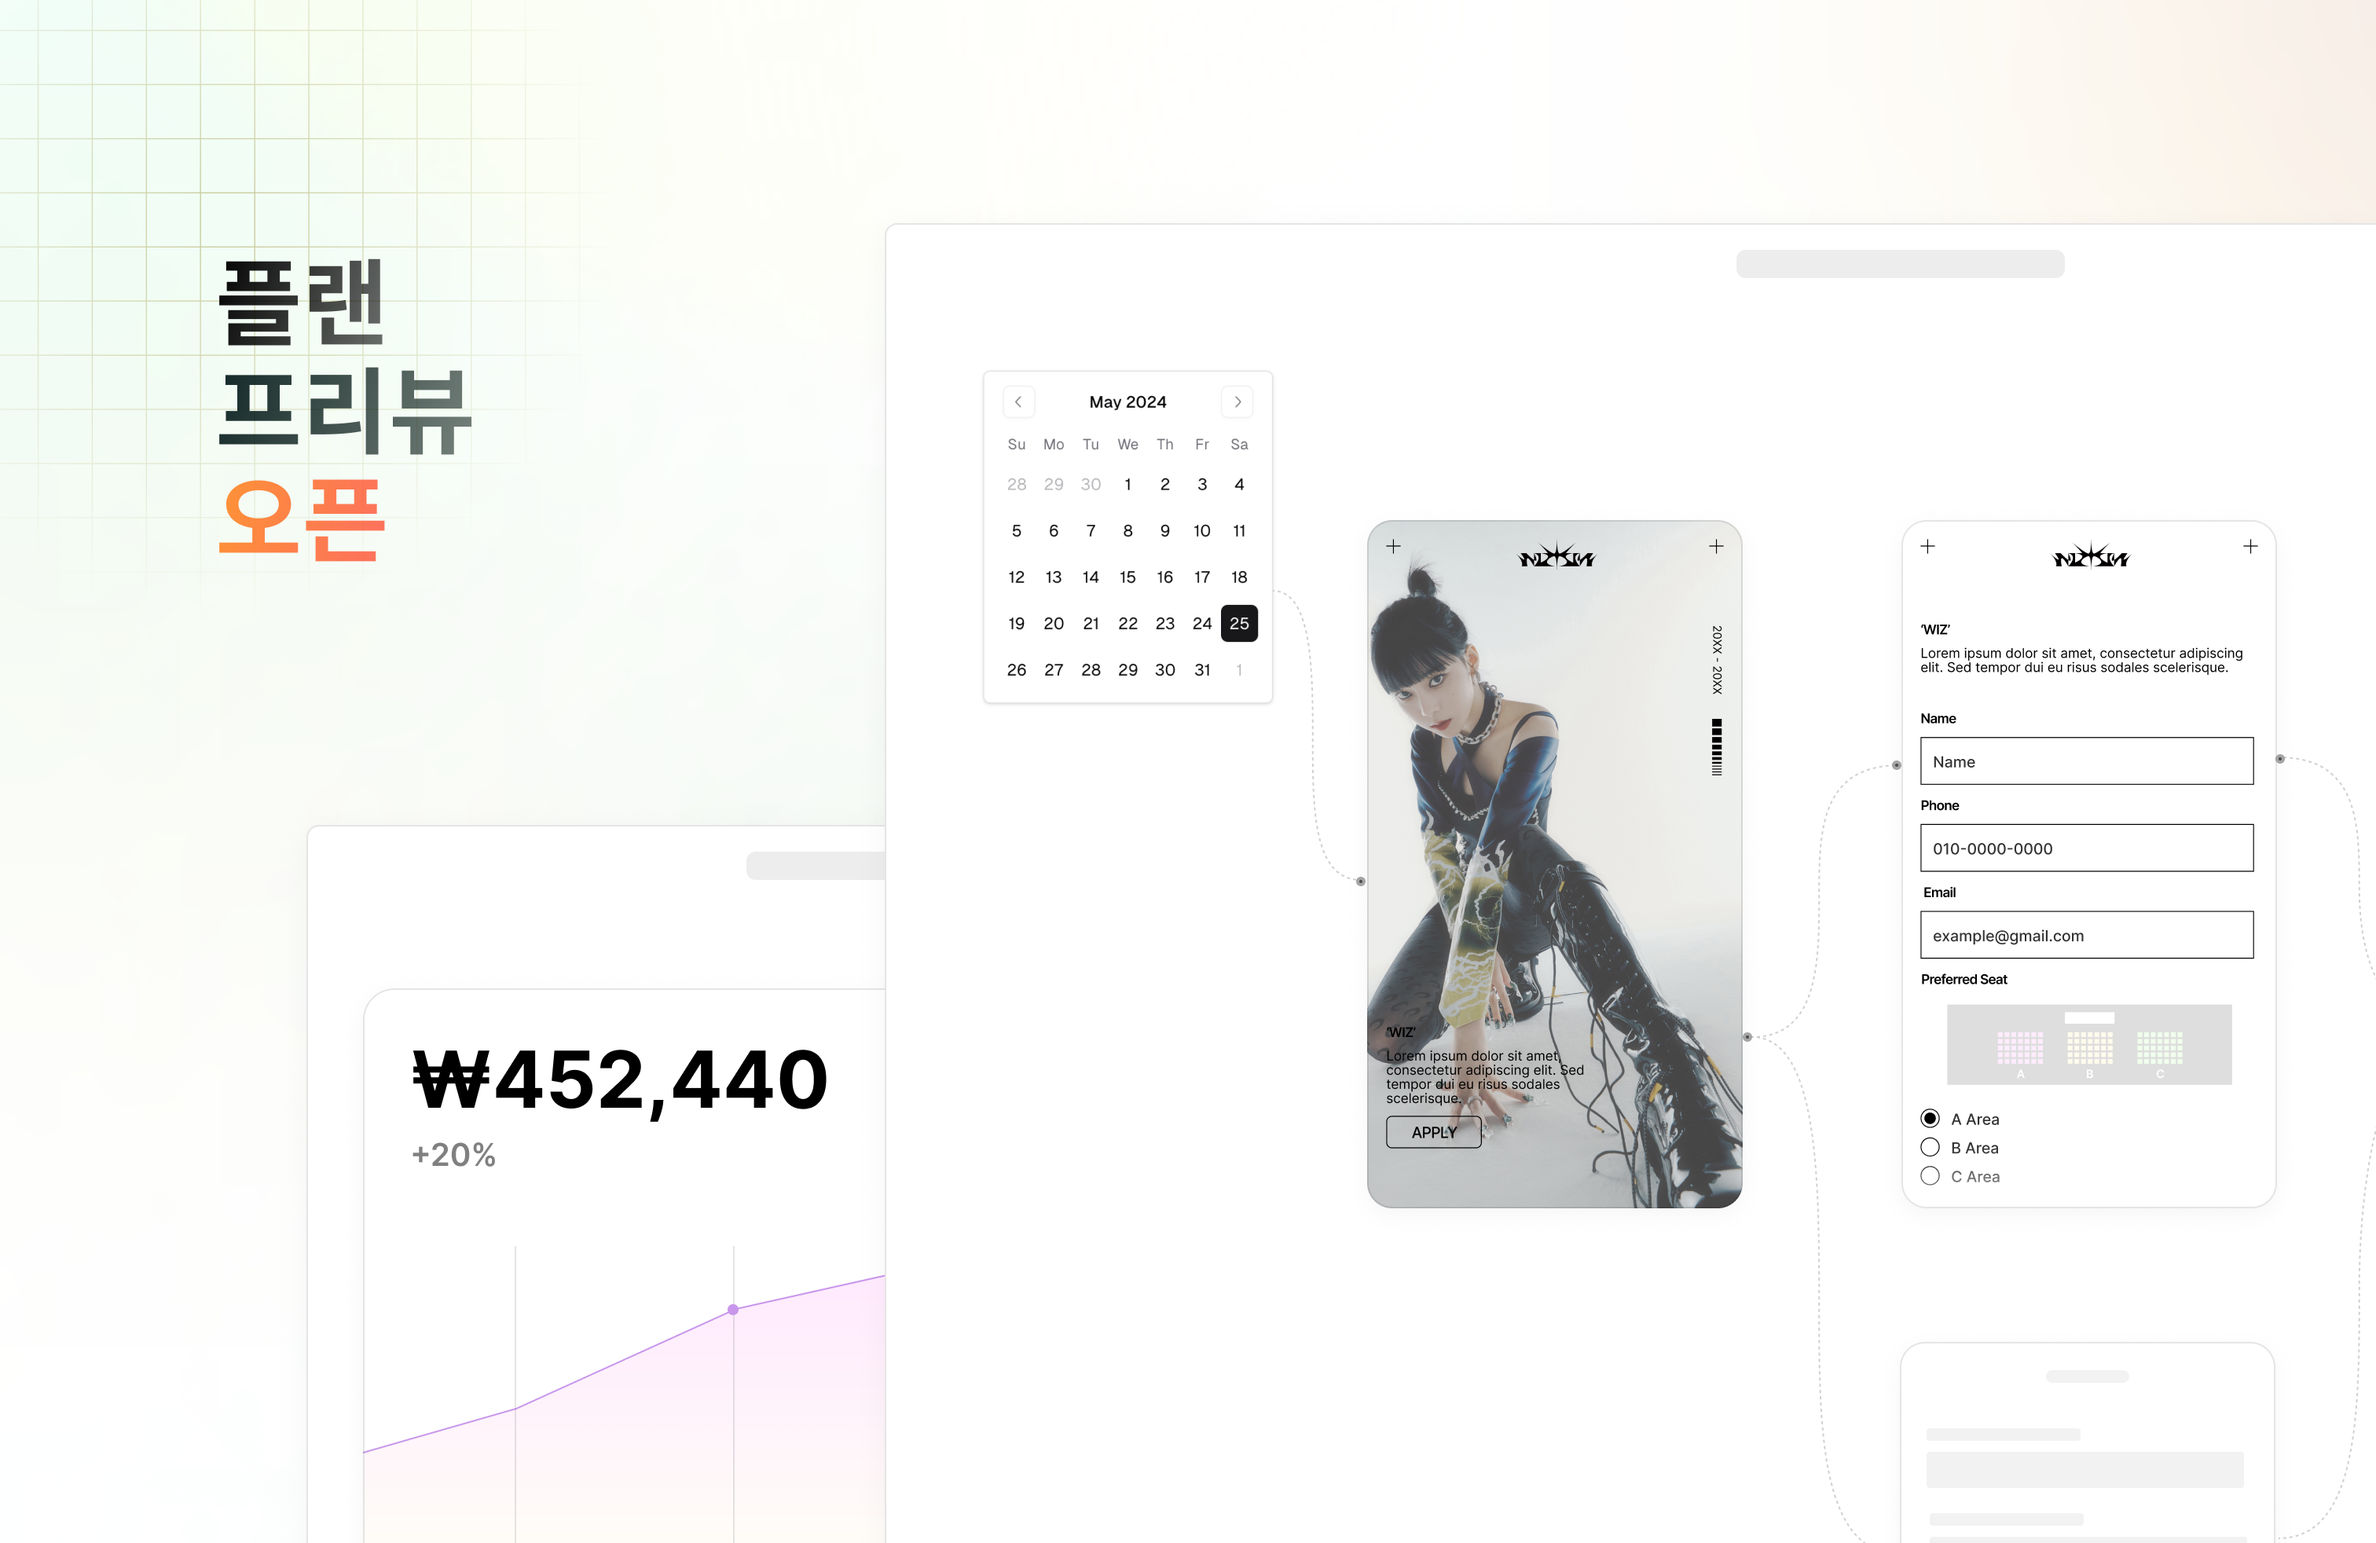
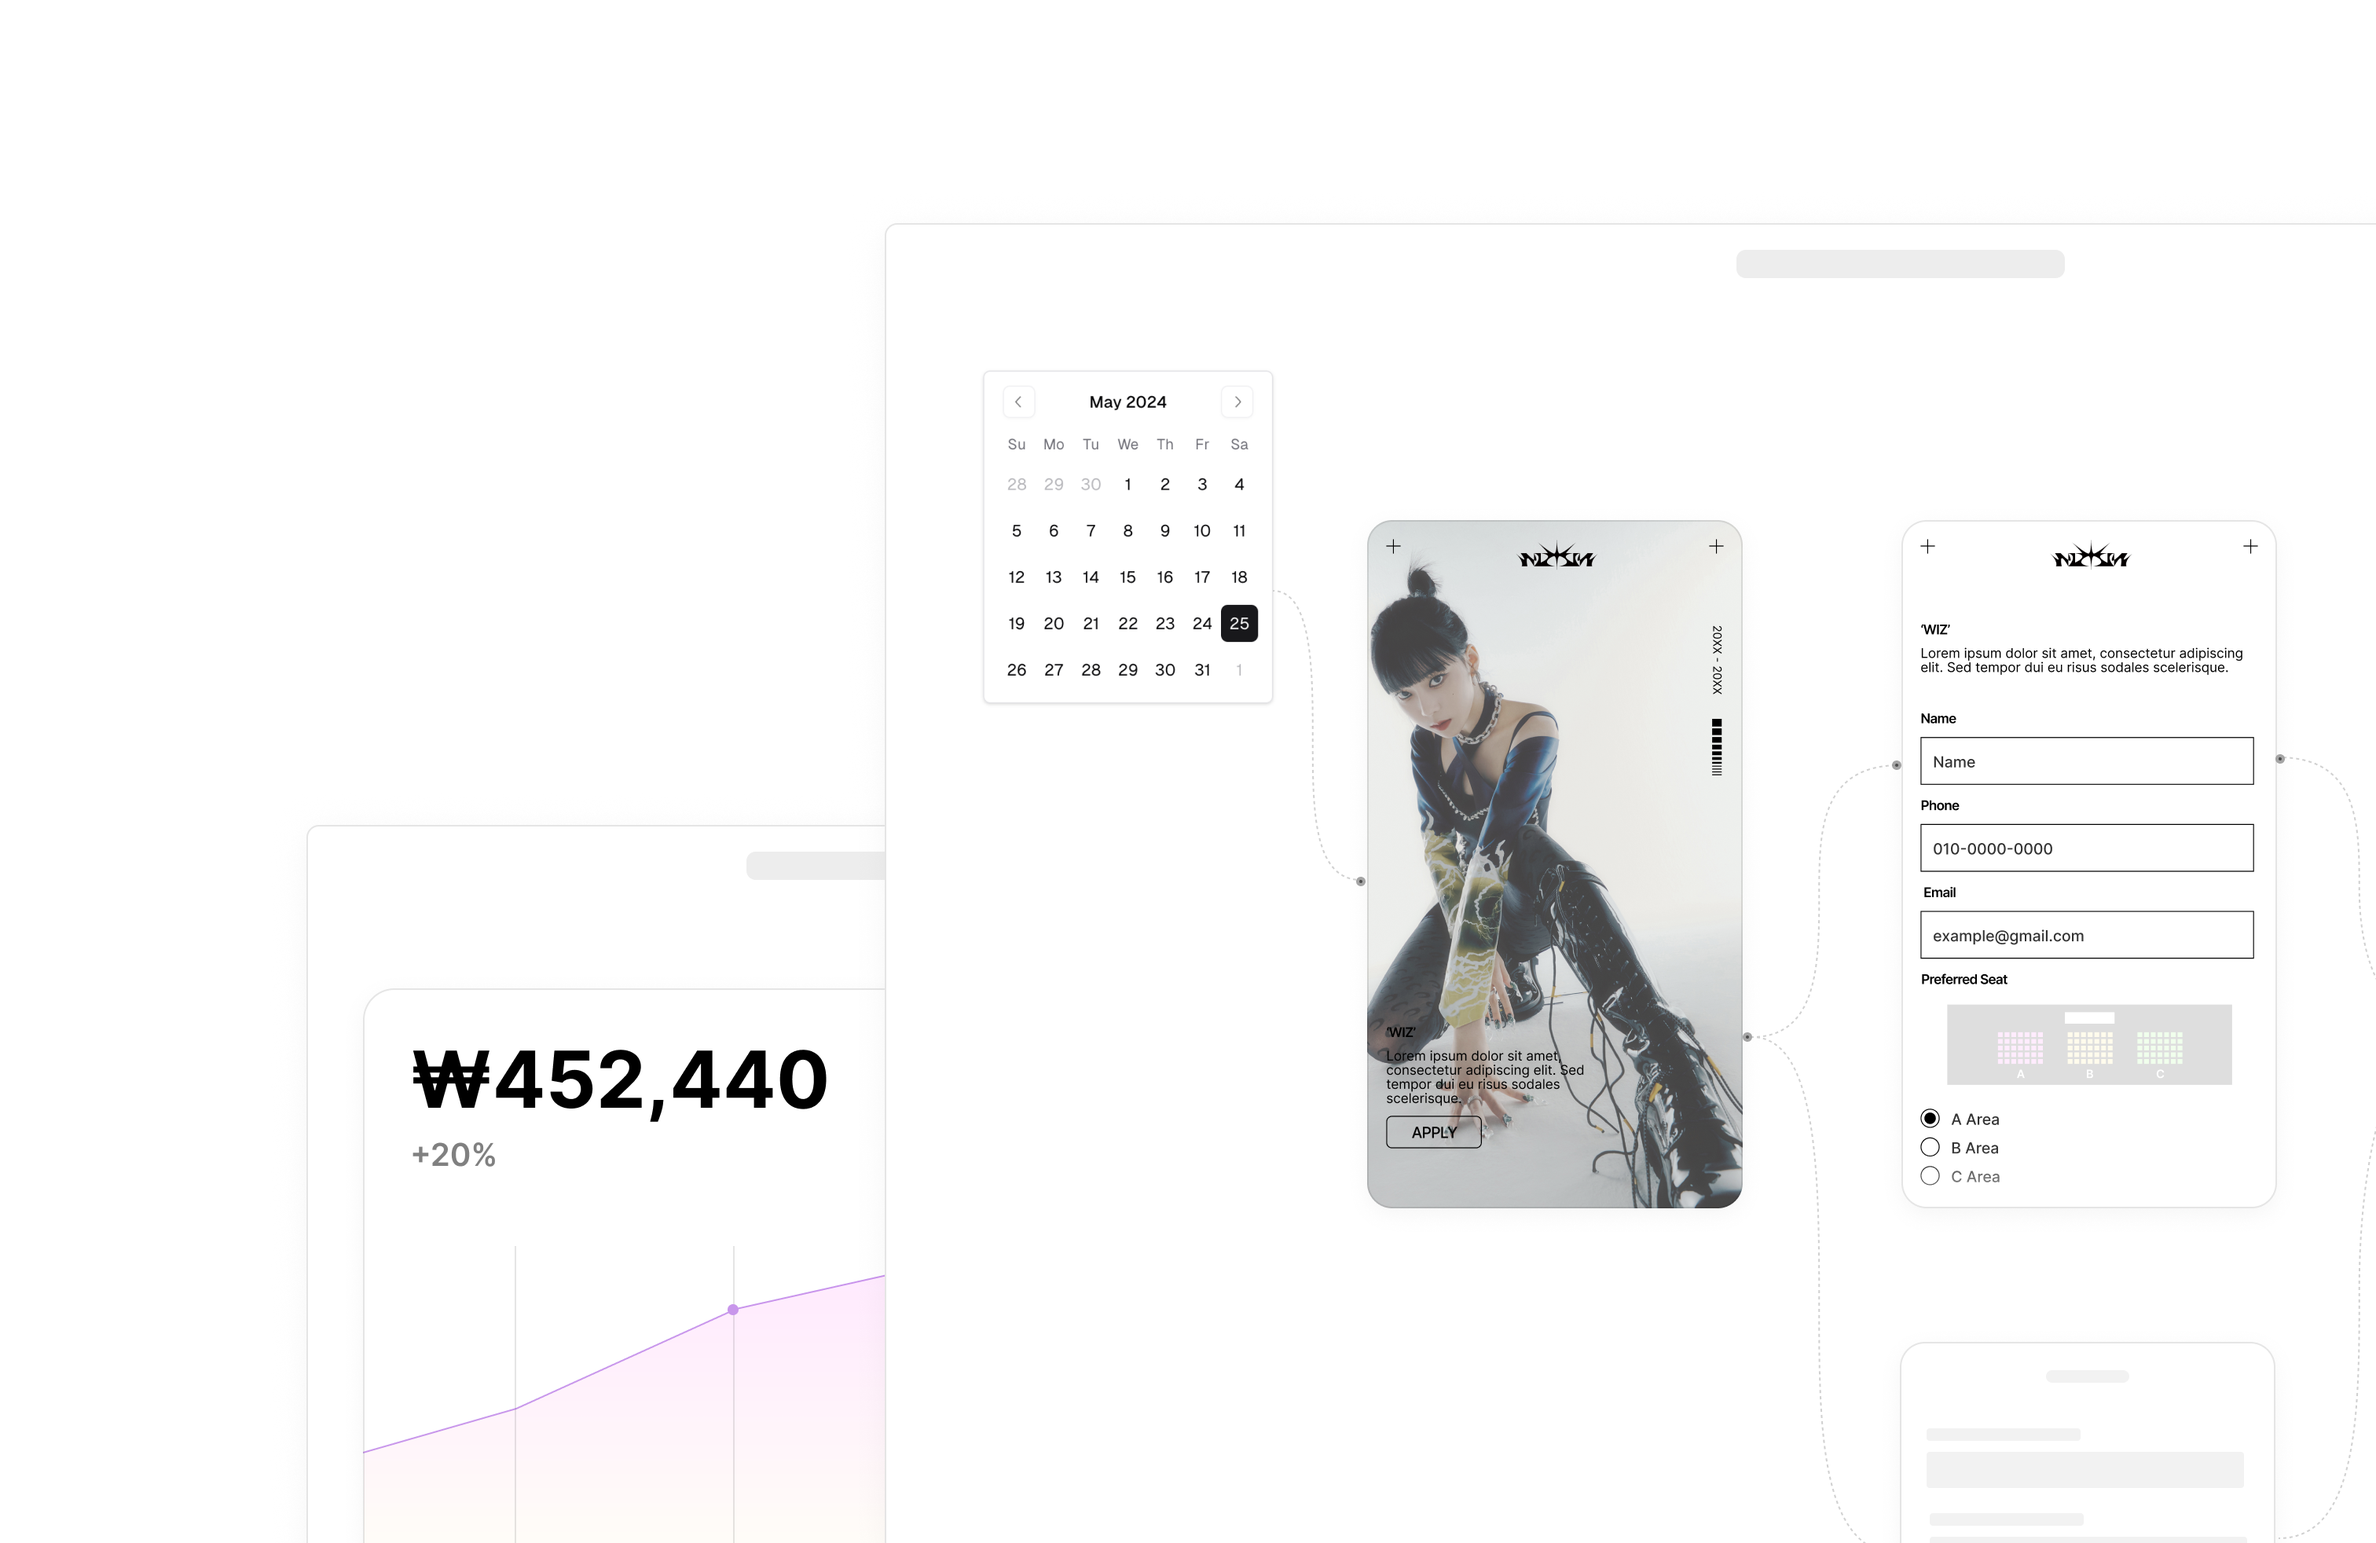
poc styles

Changed region(s): [[0.0933, 0.1553, 0.2176, 0.3727]]

diff --git a/apps/forms/app/(site)/(affiliate)/poc/demo.tsx b/apps/forms/app/(site)/(affiliate)/poc/demo.tsx
@@ -7,6 +7,8 @@ import * as k from "./data";
 import { GridaLogo } from "@/components/grida-logo";
 import { Tabs, TabsContent, TabsList, TabsTrigger } from "@/components/ui/tabs";
 import { TopBottomFadingGradientOverlay } from "./gradient";
+import bentomainbg from "../../../../public/affiliate/poc/images/bento-fullsize-video-card-background.png";
+import { cn } from "@/utils";
 
 export function Demo() {
   return (
@@ -42,19 +44,53 @@ export function Demo() {
             </TabsList>
             {k.demo_2_categories.map((category) => (
               <TabsContent key={category} value={category}>
-                <div className="flex flex-col gap-5 px-8 sm:px-24">
-                  <Image
-                    className="border md:h-[776px] w-full rounded-xl shadow-lg overflow-hidden object-cover"
-                    src={k.imagesDemo2[category].main.artwork}
-                    alt={`${category}-main`}
-                    width={1400}
-                    height={776}
-                  />
+                <div className="container flex flex-col gap-5 px-8">
+                  <div className="relative rounded-xl shadow-lg overflow-hidden border">
+                    <div className="absolute top-10 left-10 md:top-20 md:left-20">
+                      <span className="flex flex-col gap-1">
+                        {k.imagesDemo2[category].main.text.map((t, i) => {
+                          const islast =
+                            i === k.imagesDemo2[category].main.text.length - 1;
+                          return (
+                            <BentoCardKeyword
+                              key={i}
+                              className="text-4xl md:text-7xl font-black"
+                              steps={
+                                islast
+                                  ? k.imagesDemo2[category].main
+                                      .highlightColorStops
+                                  : undefined
+                              }
+                            >
+                              {t}
+                            </BentoCardKeyword>
+                          );
+                        })}
+                      </span>
+                    </div>
+                    <Image
+                      priority
+                      className=" md:h-[776px] w-full object-cover"
+                      src={k.imagesDemo2[category].main.artwork}
+                      alt={`${category}-main`}
+                      width={1400}
+                      height={776}
+                    />
+                    <Image
+                      priority
+                      className="absolute inset-0 w-full h-full object-cover -z-10"
+                      src={bentomainbg}
+                      alt={`${category}-main`}
+                      width={1400}
+                      height={776}
+                    />
+                    {/* bento-fullsize-video-card-background.png */}
+                  </div>
 
                   <div className="flex flex-col lg:grid lg:grid-cols-4 gap-5">
                     {k.imagesDemo2[category].subs.map((sub, i) => {
                       return (
-                        <DemoSubCard
+                        <BentoCard
                           key={i}
                           artwork={sub.artwork}
                           alt={`${category}-sub2`}
@@ -62,7 +98,7 @@ export function Demo() {
                           text2={sub.description}
                           className={clsx(
                             "relative rounded-xl shadow-lg w-full border overflow-hidden",
-                            "md:h-[340px]",
+                            "md:h-[320px]",
                             i === 0 ? "lg:col-start-1 lg:col-span-2" : ""
                           )}
                         />
@@ -79,7 +115,29 @@ export function Demo() {
   );
 }
 
-function DemoSubCard({
+function BentoCardKeyword({
+  className,
+  steps,
+  children,
+}: React.PropsWithChildren<{
+  className?: string;
+  steps?: [string, string, string];
+}>) {
+  //
+  const gradientClasses = steps
+    ? `text-transparent bg-gradient-to-r ${steps.join(" ")} bg-clip-text`
+    : "";
+
+  return (
+    <span>
+      <h1 className={cn(gradientClasses, "inline-block", className)}>
+        {children}
+      </h1>
+    </span>
+  );
+}
+
+function BentoCard({
   artwork,
   alt,
   text1,
@@ -100,7 +158,7 @@ function DemoSubCard({
         <span className="max-w-sm text-sm text-muted-foreground">{text2}</span>
       </div>
       <Image
-        className=" hidden md:block absolute inset-0 overflow-hidden object-right-bottom object-cover w-full h-full -z-10"
+        className=" hidden md:block absolute right-0 top-0 bottom-0 overflow-hidden object-right-bottom object-cover w-auto h-full -z-10"
         src={artwork}
         alt={alt}
         width={500}

diff --git a/apps/forms/app/(site)/(affiliate)/poc/solution-2.tsx b/apps/forms/app/(site)/(affiliate)/poc/solution-2.tsx
@@ -7,8 +7,8 @@ import { TopBottomFadingGradientOverlay } from "./gradient";
 
 export function Solutions2() {
   return (
-    <section className="flex flex-col my-40">
-      <div className=" bg-muted/50 w-full mx-0 sm:px-32 overflow-hidden">
+    <section className="bg-muted/50 flex flex-col my-40">
+      <section className="container w-full overflow-hidden">
         <div className="flex flex-col lg:flex-row">
           <aside className="lg:flex-1 py-32">
             <h2 className=" text-4xl font-bold text-center lg:text-left">
@@ -44,41 +44,39 @@ export function Solutions2() {
             />
           </aside>
         </div>
-      </div>
+      </section>
 
-      <div>
-        <section className="w-full mx-0 sm:px-32 overflow-hidden">
-          <div className="flex flex-col-reverse lg:flex-row">
-            <aside className="lg:flex-1">
-              <TopBottomFadingGradientOverlay>
-                <Image
-                  src="/affiliate/poc/images/section-cover-2.png"
-                  alt="section 2"
-                  width={650}
-                  height={400}
-                  className="transition-transform duration-200 ease-in-out hover:scale-105"
-                />
-              </TopBottomFadingGradientOverlay>
-            </aside>
-            <aside className="md:flex-1 py-32 content-center">
-              <div className="flex flex-col sm:px-32">
-                <h2 className=" text-4xl font-bold text-center lg:text-left">
-                  POC와 함께라면
-                  <br />
-                  정말 쉬운 이벤트 준비
-                </h2>
-                <p className=" text-muted-foreground mt-6 text-center lg:text-left">
-                  기업 및 브랜드에 알맞은 이벤트 폼으로,
-                  <br />
-                  고객의 높은 참여율과 편리한 이벤트 관리를 보장할 수 있습니다.
-                </p>
-              </div>
-            </aside>
-          </div>
-        </section>
-      </div>
-      <div className="bg-muted/50 w-full mx-0 sm:px-32 overflow-hidden">
-        <div className="flex flex-col lg:flex-row">
+      <section className="w-full overflow-hidden bg-background">
+        <div className="container flex flex-col-reverse lg:flex-row">
+          <aside className="lg:flex-1">
+            <TopBottomFadingGradientOverlay>
+              <Image
+                src="/affiliate/poc/images/section-cover-2.png"
+                alt="section 2"
+                width={650}
+                height={400}
+                className="transition-transform duration-200 ease-in-out hover:scale-105"
+              />
+            </TopBottomFadingGradientOverlay>
+          </aside>
+          <aside className="md:flex-1 py-32 content-center">
+            <div className="flex flex-col sm:px-32">
+              <h2 className=" text-4xl font-bold text-center lg:text-left">
+                POC와 함께라면
+                <br />
+                정말 쉬운 이벤트 준비
+              </h2>
+              <p className=" text-muted-foreground mt-6 text-center lg:text-left">
+                기업 및 브랜드에 알맞은 이벤트 폼으로,
+                <br />
+                고객의 높은 참여율과 편리한 이벤트 관리를 보장할 수 있습니다.
+              </p>
+            </div>
+          </aside>
+        </div>
+      </section>
+      <section className="bg-muted/50 w-full mx-0 overflow-hidden">
+        <div className="container flex flex-col lg:flex-row">
           <aside className="flex flex-col lg:flex-1 py-32 items-center lg:items-start">
             <h2 className=" text-4xl font-bold text-center lg:text-left">
               오직 여기서만 가능한.
@@ -102,7 +100,7 @@ export function Solutions2() {
             />
           </aside>
         </div>
-      </div>
+      </section>
     </section>
   );
 }

diff --git a/apps/forms/app/(site)/(affiliate)/poc/data.ts b/apps/forms/app/(site)/(affiliate)/poc/data.ts
@@ -36,12 +36,18 @@ interface DemoCardData {
 export const imagesDemo2: Record<
   string,
   {
-    main: { artwork: string };
+    main: {
+      text: string[];
+      highlightColorStops: [string, string, string];
+      artwork: string;
+    };
     subs: DemoCardData[];
   }
 > = {
   "캠페인 매니저": {
     main: {
+      text: ["플랜", "프리뷰", "오픈"],
+      highlightColorStops: ["from-orange-600", "via-red-500", "to-orange-400"],
       artwork: "/affiliate/poc/images/demo-2-images/campaign-image-main.png",
     },
     subs: [
@@ -66,6 +72,8 @@ export const imagesDemo2: Record<
   },
   "대용량 트래픽": {
     main: {
+      text: ["강력한", "큐 관리"],
+      highlightColorStops: ["from-blue-700", "via-blue-500", "to-green-400"],
       artwork: "/affiliate/poc/images/demo-2-images/traffic-image-main.png",
     },
     subs: [
@@ -91,6 +99,8 @@ export const imagesDemo2: Record<
   },
   "티켓/인벤토리": {
     main: {
+      text: ["티켓팅", "인벤토리"],
+      highlightColorStops: ["from-red-400", "via-pink-400", "to-purple-500"],
       artwork: "/affiliate/poc/images/demo-2-images/ticketing-image-main.png",
     },
     subs: [
@@ -115,6 +125,12 @@ export const imagesDemo2: Record<
   },
   고객관리: {
     main: {
+      text: ["똑똑한", "고객 관리"],
+      highlightColorStops: [
+        "from-orange-500",
+        "via-yellow-400",
+        "to-orange-200",
+      ],
       artwork: "/affiliate/poc/images/demo-2-images/customer-image-main.png",
     },
     subs: [
@@ -138,6 +154,8 @@ export const imagesDemo2: Record<
   },
   개발자: {
     main: {
+      text: ["바닥부터", "Headless"],
+      highlightColorStops: ["from-green-700", "via-green-500", "to-green-300"],
       artwork: "/affiliate/poc/images/demo-2-images/developer-image-main.png",
     },
     subs: [

diff --git a/apps/forms/app/(site)/(affiliate)/poc/logos.tsx b/apps/forms/app/(site)/(affiliate)/poc/logos.tsx
@@ -49,9 +49,15 @@ const logos = [
 ];
 export function Logos() {
   return (
-    <div className="grayscale flex flex-wrap gap-10 p-8 rounded justify-center items-center dark:bg-white">
+    <div className="flex flex-wrap gap-10 p-8 rounded justify-center items-center">
       {logos.map((src, i) => (
-        <Image key={i} src={src} alt="adidas" height={40} />
+        <Image
+          key={i}
+          src={src}
+          alt="adidas"
+          height={40}
+          className="p-1 rounded grayscale dark:invert hover:grayscale-0 hover:dark:invert-0 hover:bg-white"
+        />
       ))}
     </div>
   );

diff --git a/apps/forms/app/(site)/(affiliate)/poc/solution.tsx b/apps/forms/app/(site)/(affiliate)/poc/solution.tsx
@@ -68,7 +68,7 @@ function SolutionCard({
   title: React.ReactNode;
 }) {
   return (
-    <div className="max-w-sm px-4 py-4 border bg-white/5 border-muted rounded shadow-lg transition-transform duration-200 ease-in-out hover:scale-105">
+    <div className="max-w-80 w-full px-4 py-4 border bg-white/5 border-muted rounded shadow-lg transition-transform duration-200 ease-in-out hover:scale-105">
       <Image
         src={cover}
         alt={alt ?? ""}
